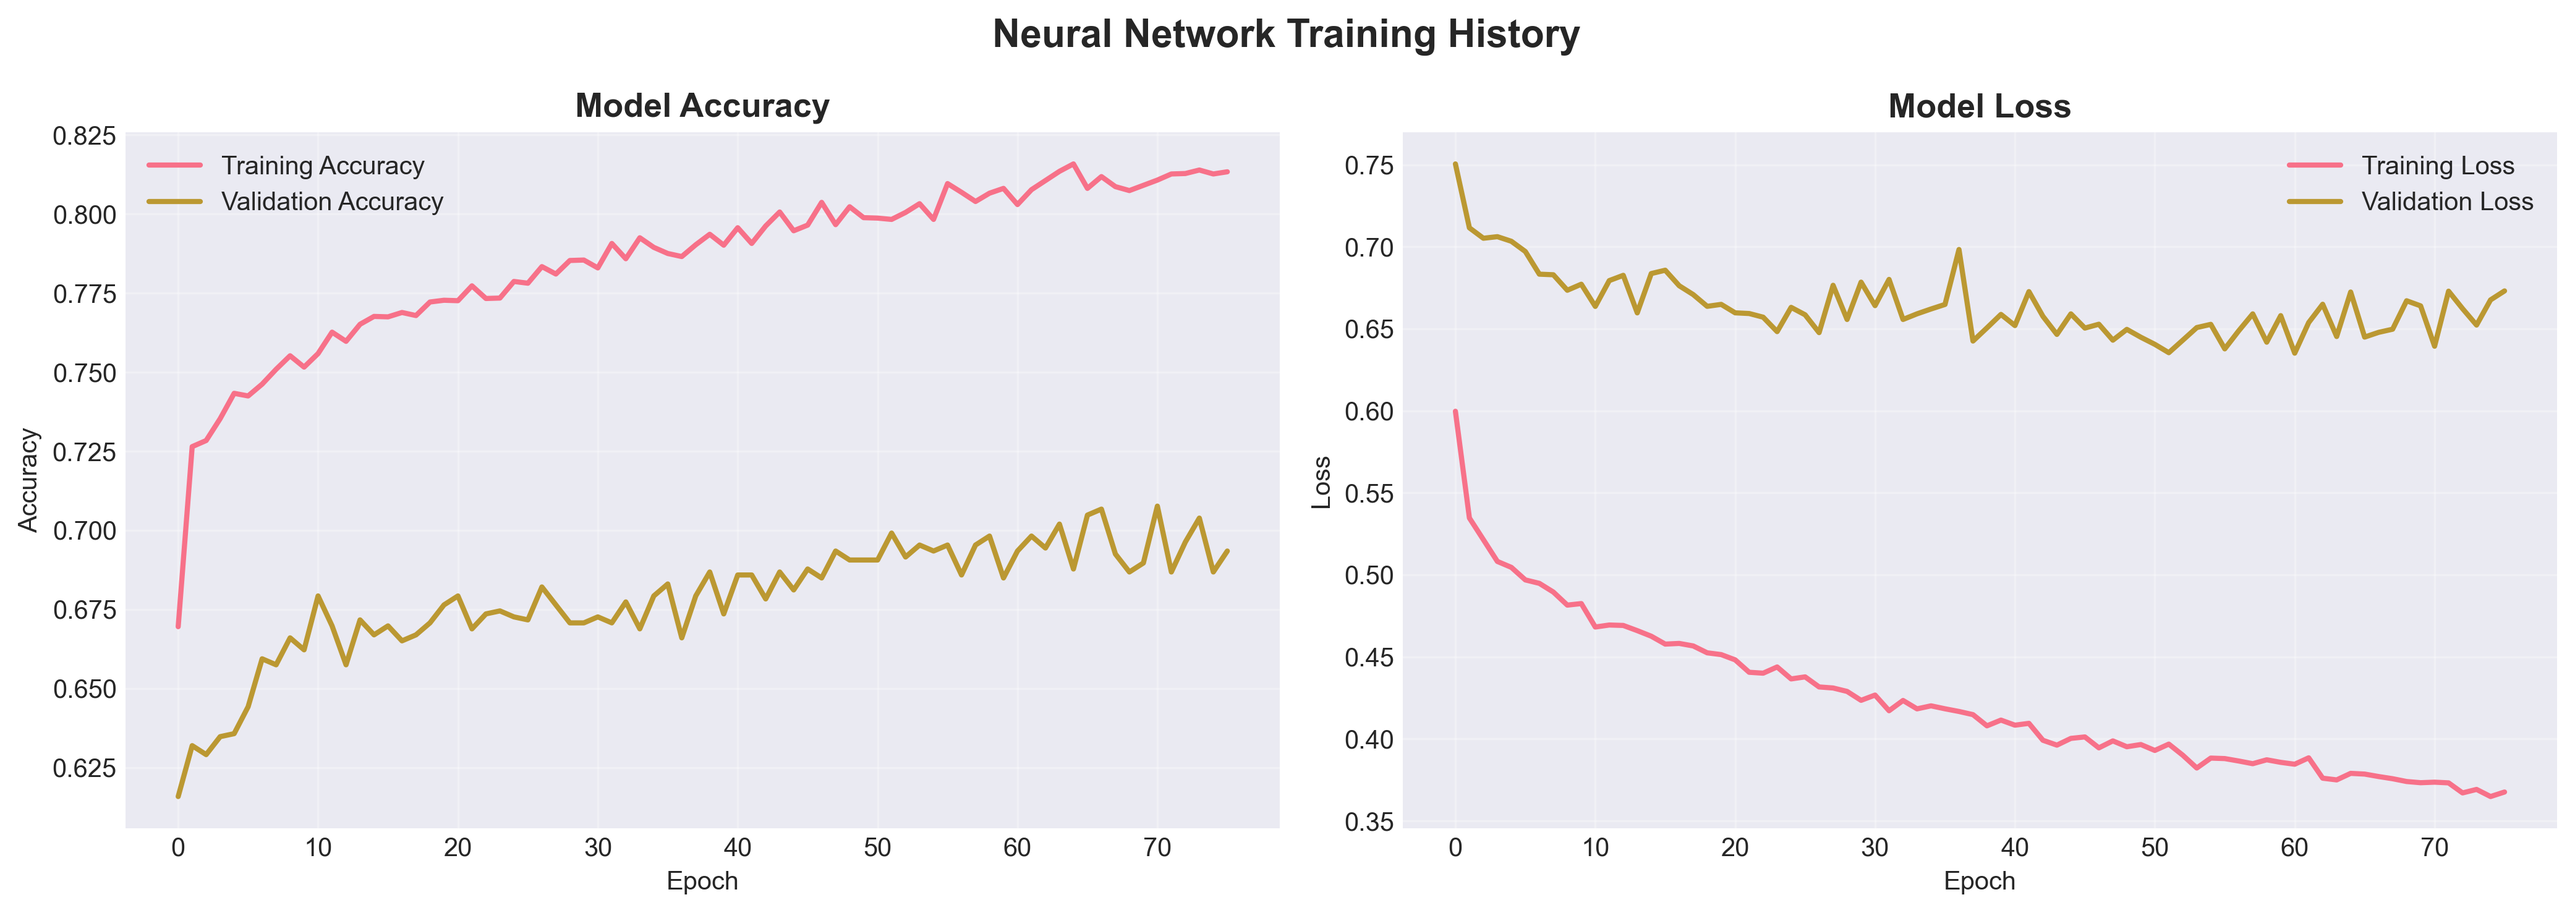
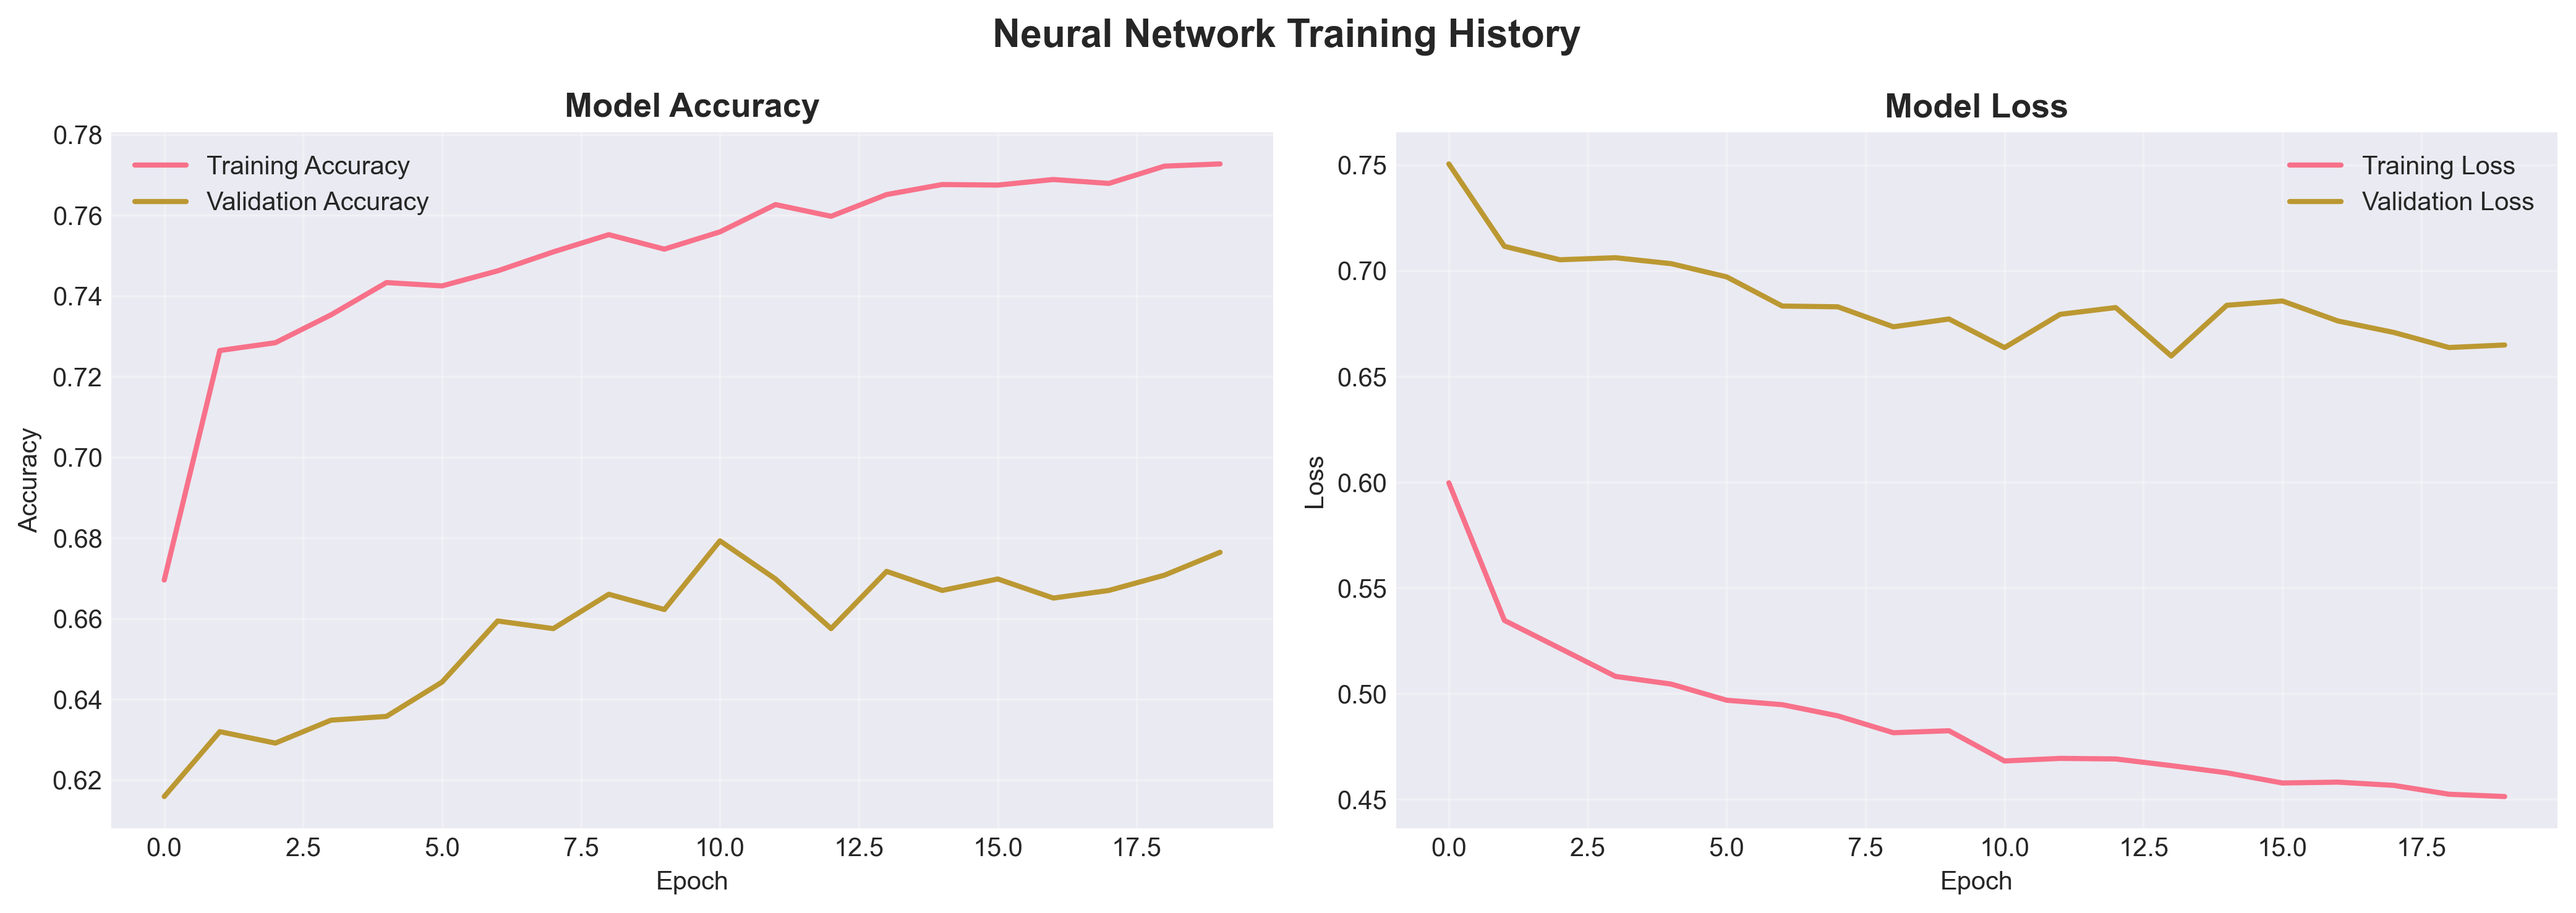
Refactor model training parameters and update performance metrics for customer churn prediction

diff --git a/src/ds.py b/src/ds.py
@@ -23,27 +23,24 @@ import warnings
 warnings.filterwarnings('ignore')
 
 # Machine Learning imports
-from sklearn.model_selection import train_test_split, StratifiedKFold
-from sklearn.preprocessing import StandardScaler, LabelEncoder
+from sklearn.model_selection import train_test_split
+from sklearn.preprocessing import StandardScaler
 from sklearn.metrics import (accuracy_score, precision_score, recall_score,
                              f1_score, roc_auc_score, confusion_matrix,
                              classification_report, roc_curve)
 from sklearn.linear_model import LogisticRegression
 from sklearn.ensemble import RandomForestClassifier
-from sklearn.inspection import permutation_importance
 from imblearn.over_sampling import SMOTE
 
 # TensorFlow/Keras imports
 import tensorflow as tf
 from tensorflow import keras
 from tensorflow.keras import layers, callbacks
-from tensorflow.keras.utils import to_categorical
 
 # Additional utilities
 import joblib
 import gc
-from datetime import datetime
-import pickle
+
 
 # Set random seeds for reproducibility
 np.random.seed(42)
@@ -279,7 +276,7 @@ history = nn_model.fit(
     X_train_balanced,
     y_train_balanced,
     validation_data=(X_val_df, y_val),
-    epochs=100,
+    epochs=20,
     batch_size=32,
     callbacks=[early_stopping, checkpoint],
     class_weight=class_weight_dict,
